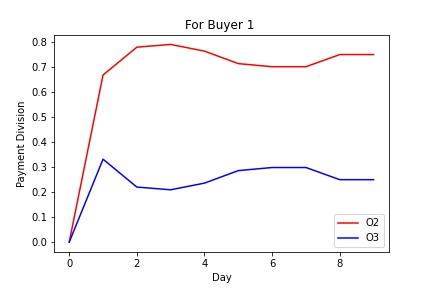
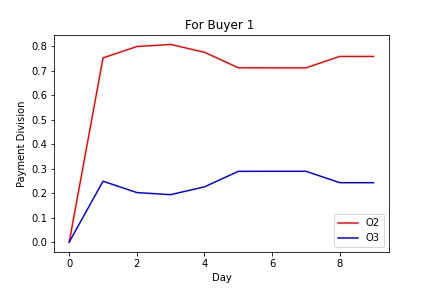
Learning Rate updated

diff --git a/datamarkets_carla/code/synthetic_main_sim.py b/datamarkets_carla/code/synthetic_main_sim.py
@@ -1,3 +1,5 @@
+
+
 # 2020 
 # Carla Goncalves <carla.s.goncalves@inesctec.pt>
 # License GPL(>=3)
@@ -27,7 +29,7 @@ from Online_SGD import *
 
 ## Incorporating online SGD
 
-lr=0.0005
+lr=0.00001
 damp=1.00
 # 1. INITIALIZATION
 

diff --git a/datamarkets_carla/code/synthetic_run_simulation.py b/datamarkets_carla/code/synthetic_run_simulation.py
@@ -1,4 +1,3 @@
-# 2020 
 # Carla Goncalves <carla.s.goncalves@inesctec.pt>
 # License GPL(>=3)
 # This script implements the main functions to simulate the data market proposed
